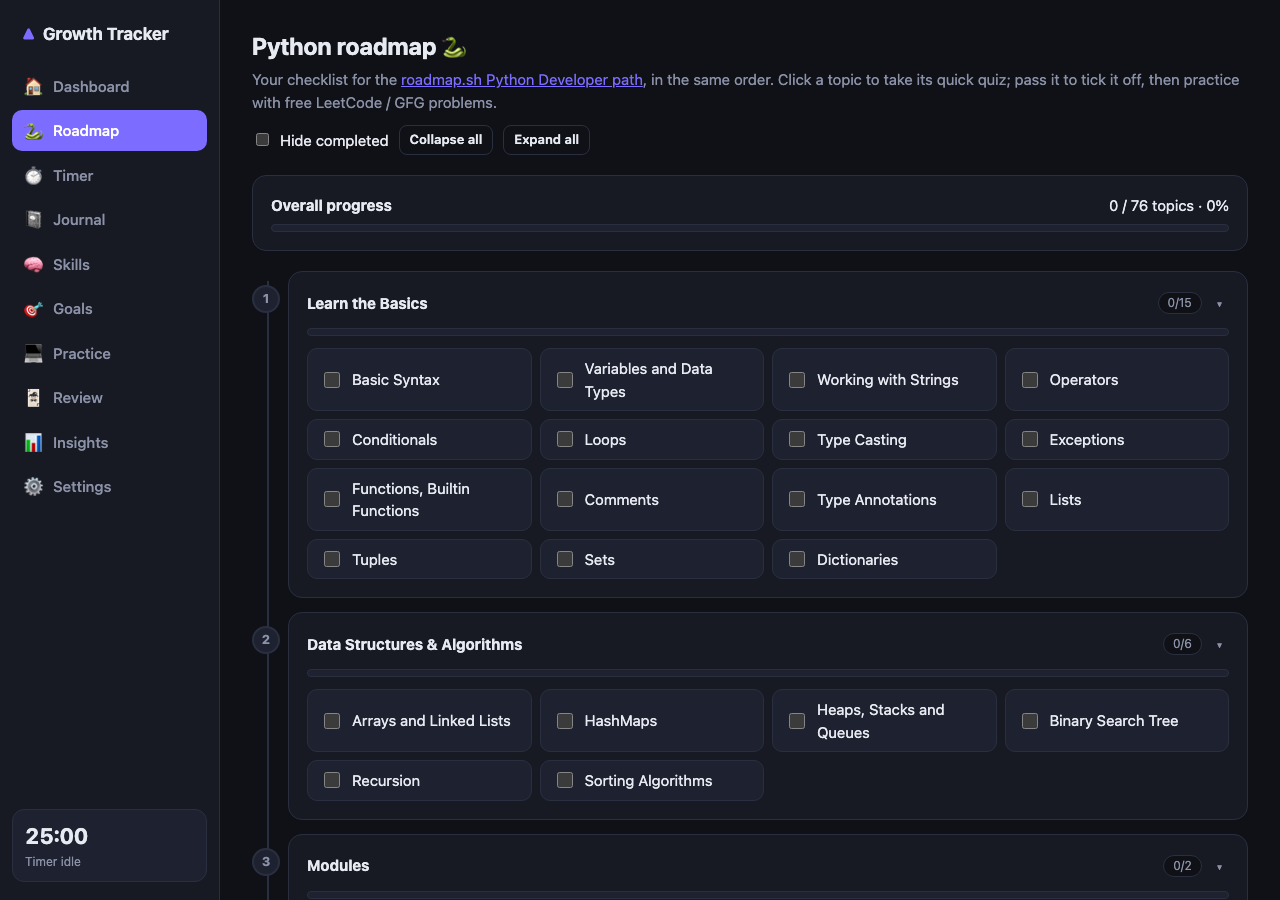
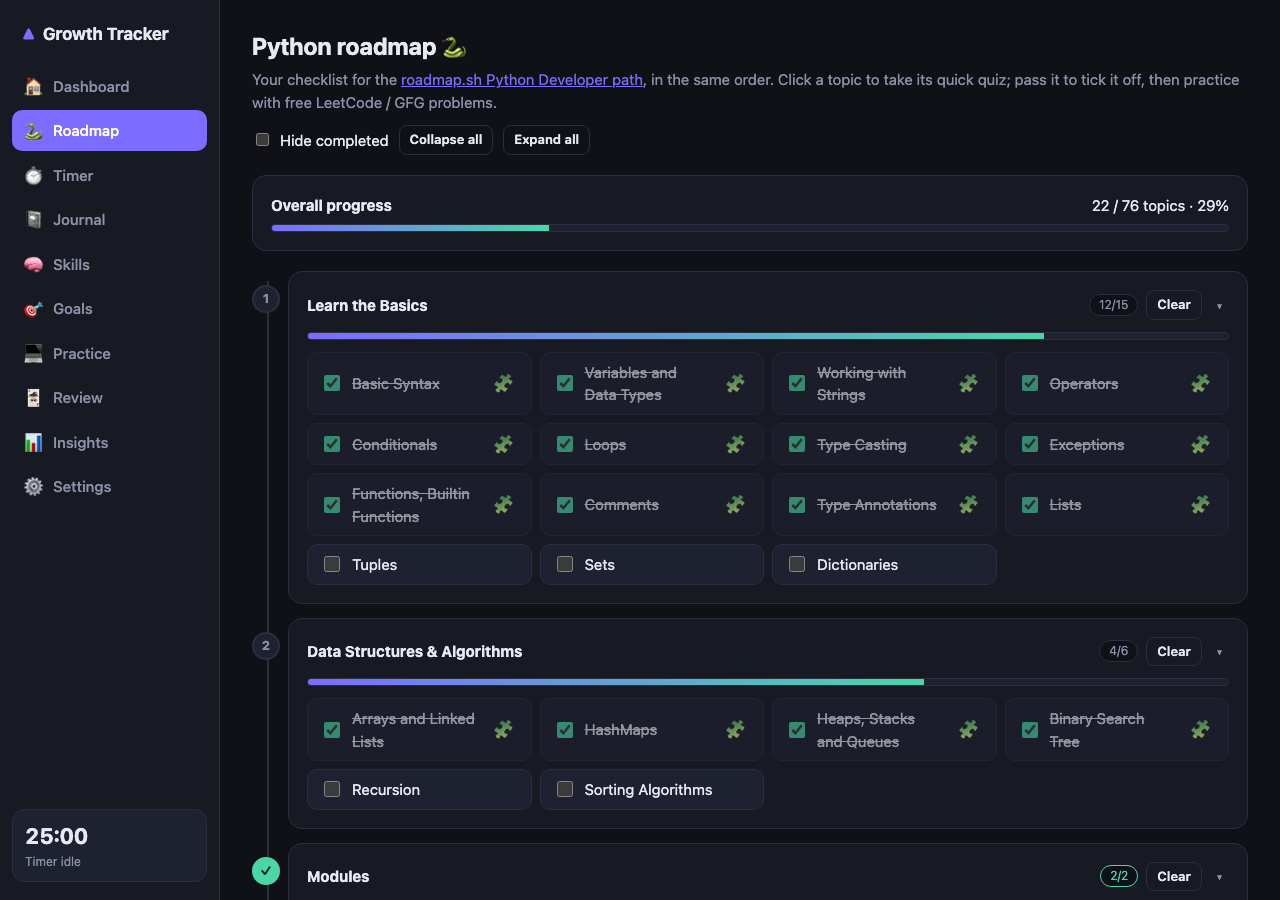
Add issue/PR templates, sample-data loader and richer screenshots
- GitHub issue forms (bug, feature, quiz question) and a PR template
- Settings: "Load sample data" so anyone can explore the app with realistic data
- README screenshots now show populated data

diff --git a/src/lib/demo.ts b/src/lib/demo.ts
@@ -1,0 +1,142 @@
+import { clearAll, db, type Session } from '../db'
+import { PYTHON_ROADMAP } from '../data/pythonRoadmap'
+import { addDays, quarterOf, today } from './util'
+
+// Small deterministic PRNG so the sample data is the same every time.
+function rng(seed: number) {
+  return () => {
+    seed |= 0
+    seed = (seed + 0x6d2b79f5) | 0
+    let t = Math.imul(seed ^ (seed >>> 15), 1 | seed)
+    t = (t + Math.imul(t ^ (t >>> 7), 61 | t)) ^ t
+    return ((t ^ (t >>> 14)) >>> 0) / 4294967296
+  }
+}
+
+/** Replaces ALL data with realistic sample data so people can try the app. */
+export async function loadDemoData() {
+  await clearAll()
+  const rand = rng(42)
+  const t = today()
+  const now = Date.now()
+
+  // Skills (top-level + a few children)
+  const top: Record<string, number> = {}
+  const defs: [string, number][] = [
+    ['Python', 4],
+    ['Data Structures', 3],
+    ['Algorithms', 3],
+    ['System Design', 2],
+    ['React', 3],
+    ['Databases / SQL', 2],
+    ['Git & Tooling', 4],
+    ['Testing', 2],
+  ]
+  for (const [name, level] of defs) {
+    top[name] = (await db.skills.add({ name, parentId: null, level, lastPracticed: addDays(t, -Math.floor(rand() * 9)), createdAt: now })) as number
+  }
+  const kids: [string, string, number][] = [
+    ['Dynamic Programming', 'Algorithms', 2],
+    ['Graphs', 'Algorithms', 1],
+    ['Caching', 'System Design', 2],
+    ['Decorators & Generators', 'Python', 3],
+  ]
+  for (const [name, parent, level] of kids) {
+    await db.skills.add({ name, parentId: top[parent], level, lastPracticed: addDays(t, -Math.floor(rand() * 20)), createdAt: now })
+  }
+  const skillIds = Object.values(top)
+
+  // ~5 months of focus sessions with a realistic rhythm (busier on weekdays, a few gaps)
+  const sessions: Omit<Session, 'id'>[] = []
+  for (let d = 150; d >= 0; d--) {
+    const date = addDays(t, -d)
+    const dow = new Date(date + 'T12:00:00').getDay()
+    const weekend = dow === 0 || dow === 6
+    if (rand() > (weekend ? 0.45 : 0.85)) continue
+    const count = 1 + Math.floor(rand() * (weekend ? 2 : 3))
+    for (let i = 0; i < count; i++) {
+      const hour = rand() < 0.6 ? 19 + Math.floor(rand() * 3) : 8 + Math.floor(rand() * 4)
+      const start = new Date(date + 'T00:00:00').getTime() + (hour * 60 + Math.floor(rand() * 40)) * 60000
+      if (start > now) continue
+      sessions.push({
+        start,
+        minutes: [25, 25, 25, 45, 50, 90][Math.floor(rand() * 6)],
+        kind: rand() < 0.7 ? 'pomodoro' : 'stopwatch',
+        skillId: skillIds[Math.floor(rand() * skillIds.length)],
+        date,
+      })
+    }
+  }
+  await db.sessions.bulkAdd(sessions as Session[])
+
+  // Journal
+  const logs: [number, string, string, string, number, number, string[]][] = [
+    [0, 'Learned how Python decorators wrap functions, and wrote a timing decorator.\n```python\ndef timed(f):\n    def w(*a, **k):\n        import time; s = time.time()\n        r = f(*a, **k)\n        print(f.__name__, time.time() - s)\n        return r\n    return w\n```', 'Forgot functools.wraps, so the function name was lost.', 'Understood closures finally.', 4, 4, ['python', 'decorators']],
+    [1, 'Solved 3 hash map problems. Pattern: store value to index, check complement.', '', 'Two Sum in under 10 minutes.', 4, 3, ['algorithms', 'hashmaps']],
+    [2, 'Read about database indexes and when a composite index helps.', 'Query plan output is still confusing.', '', 3, 3, ['sql']],
+    [4, 'Built a small React form with controlled inputs.', 'Stale state in an effect, fixed with a dependency array.', 'Shipped the form.', 5, 4, ['react']],
+    [6, 'Reviewed binary trees: in-order, pre-order, post-order.', 'Low energy, short session.', '', 2, 2, ['dsa']],
+    [9, 'Wrote my first pytest fixtures and parametrized tests.', '', 'Test suite runs in 0.4s.', 4, 4, ['testing', 'python']],
+  ]
+  await db.logs.bulkAdd(
+    logs.map(([ago, learned, blockers, wins, mood, energy, tags]) => ({
+      date: addDays(t, -ago),
+      learned,
+      blockers,
+      wins,
+      mood,
+      energy,
+      tags,
+      createdAt: now - ago * 86400000,
+    }))
+  )
+
+  // Goals + milestones
+  const g1 = (await db.goals.add({ title: 'Solve 100 DSA problems', quarter: quarterOf(), done: false, createdAt: now })) as number
+  const g2 = (await db.goals.add({ title: 'Finish the Python roadmap', quarter: quarterOf(), done: false, createdAt: now - 1000 })) as number
+  const g3 = (await db.goals.add({ title: 'Ship a side project', quarter: quarterOf(), done: false, createdAt: now - 2000 })) as number
+  await db.milestones.bulkAdd([
+    { goalId: g1, title: '25 problems', week: 'W3', done: true },
+    { goalId: g1, title: '50 problems', week: 'W6', done: true },
+    { goalId: g1, title: '75 problems', week: 'W9', done: false },
+    { goalId: g1, title: '100 problems', week: 'W12', done: false },
+    { goalId: g2, title: 'Basics + data structures', week: 'W2', done: true },
+    { goalId: g2, title: 'OOP and modules', week: 'W5', done: true },
+    { goalId: g2, title: 'Frameworks and testing', week: 'W10', done: false },
+    { goalId: g3, title: 'Design the data model', week: 'W2', done: true },
+    { goalId: g3, title: 'Build the MVP', week: 'W6', done: false },
+    { goalId: g3, title: 'Deploy and share', week: 'W8', done: false },
+  ])
+
+  // Practice log
+  await db.problems.bulkAdd([
+    { title: 'Two Sum', platform: 'LeetCode', difficulty: 'Easy', minutes: 12, hints: 0, solved: true, skillId: top['Algorithms'], retryDate: '', date: addDays(t, -1), notes: 'Hash map of value to index.' },
+    { title: 'Valid Parentheses', platform: 'LeetCode', difficulty: 'Easy', minutes: 15, hints: 0, solved: true, skillId: top['Data Structures'], retryDate: '', date: addDays(t, -2), notes: 'Stack.' },
+    { title: 'Merge Intervals', platform: 'LeetCode', difficulty: 'Medium', minutes: 40, hints: 1, solved: true, skillId: top['Algorithms'], retryDate: addDays(t, -1), date: addDays(t, -8), notes: 'Sort by start, then merge.' },
+    { title: 'Longest Substring Without Repeating Characters', platform: 'LeetCode', difficulty: 'Medium', minutes: 45, hints: 2, solved: false, skillId: top['Algorithms'], retryDate: addDays(t, 2), date: addDays(t, -5), notes: 'Sliding window.' },
+  ])
+  await db.projects.bulkAdd([
+    { title: 'Growth Tracker', url: 'https://github.com/soham7117/growth-tracker', type: 'project', reflection: 'Would add cloud sync and more quiz questions.', date: addDays(t, -3) },
+    { title: 'Fix off-by-one in pagination', url: '', type: 'pr', reflection: 'Should have added a regression test first.', date: addDays(t, -12) },
+  ])
+  await db.resources.bulkAdd([
+    { title: 'Fluent Python', kind: 'book', takeaway: 'Special methods make your objects feel built-in.', date: addDays(t, -6) },
+    { title: 'Python generators explained', kind: 'video', takeaway: 'yield pauses a function and keeps its state.', date: addDays(t, -10) },
+  ])
+
+  // Flashcards (a few due today)
+  const cards: [string, string, number, number][] = [
+    ['What is the GIL?', 'A lock allowing only one thread to run Python bytecode at a time in CPython.', 0, 0],
+    ['Time complexity of dict lookup?', 'O(1) on average.', 0, 0],
+    ['Difference between a list and a tuple?', 'Lists are mutable, tuples are immutable.', 0, 0],
+    ['What does @staticmethod do?', 'Defines a method that gets no implicit self or cls argument.', 3, 6],
+    ['What is a closure?', 'A function that remembers variables from its enclosing scope.', 5, 6],
+  ]
+  await db.flashcards.bulkAdd(
+    cards.map(([front, back, dueIn, interval]) => ({ front, back, skillId: top['Python'], ease: 2.5, interval, reps: interval ? 2 : 0, due: addDays(t, dueIn) }))
+  )
+
+  // Roadmap: first few sections mostly done
+  const done = PYTHON_ROADMAP.flatMap((s, si) => s.items.filter((_, ii) => (si === 0 && ii < 12) || (si === 1 && ii < 4) || (si === 2) || (si === 3 && ii < 4)).map((i) => i.id))
+  await db.roadmap.bulkAdd(done.map((id, k) => ({ id, done: true, doneAt: now - (done.length - k) * 3600000 })))
+}

diff --git a/src/pages/SettingsPage.tsx b/src/pages/SettingsPage.tsx
@@ -2,6 +2,7 @@ import { useRef, useState } from 'react'
 import { clearAll, exportAll, importAll } from '../db'
 import { Card } from '../components/ui'
 import { beep, notify, requestNotifications, unlockAudio } from '../lib/alarm'
+import { loadDemoData } from '../lib/demo'
 import { DEFAULTS, updateSettings, useSettings } from '../lib/settings'
 import { timer } from '../lib/timer'
 import { download, today } from '../lib/util'
@@ -158,6 +159,17 @@ export default function SettingsPage() {
               </button>
               <input ref={fileRef} type="file" accept="application/json" hidden onChange={doImport} />
             </div>
+            <button
+              className="btn ghost"
+              onClick={async () => {
+                if (confirm('Replace ALL current data with sample data? Export a backup first if you want to keep your data.')) {
+                  await loadDemoData()
+                  setMsg('Sample data loaded.')
+                }
+              }}
+            >
+              ✨ Load sample data
+            </button>
             <button
               className="btn danger"
               onClick={async () => {

diff --git a/README.md b/README.md
@@ -6,9 +6,13 @@ An offline-first web app to track your growth as a developer. Focus timers with 
 
 **Live demo: https://growth-tracker-ecru.vercel.app**
 
-| Python roadmap (quiz-gated checklist) | Focus timer |
+| Dashboard | Python roadmap (quiz-gated checklist) |
 |---|---|
-| ![Python roadmap checklist](docs/roadmap.png) | ![Pomodoro timer](docs/timer.png) |
+| ![Dashboard with heatmap, streak and nudges](docs/dashboard.png) | ![Python roadmap checklist](docs/roadmap.png) |
+| **Insights** | **Focus timer** |
+| ![Weekly insights charts](docs/insights.png) | ![Pomodoro timer](docs/timer.png) |
+
+> Want to explore with realistic data? Open **Settings → ✨ Load sample data** (this replaces your current data, so export a backup first if you have any).
 
 ## Features
 

diff --git a/.github/PULL_REQUEST_TEMPLATE.md b/.github/PULL_REQUEST_TEMPLATE.md
@@ -1,0 +1,11 @@
+## What does this change?
+
+<!-- A short description and the issue it closes, e.g. "Closes #12". -->
+
+## Checklist
+
+- [ ] `npm test` and `npm run build` pass locally
+- [ ] UI changes were checked in the browser (include a screenshot if visual)
+- [ ] New or changed quiz questions have exactly 1 correct + 3 distinct wrong answers, and code snippets were run in real Python
+- [ ] Database schema changes add a new `this.version(n)` in `src/db.ts` instead of editing an existing one
+- [ ] No secrets, personal data, or tracking added (the app stays local-first)
